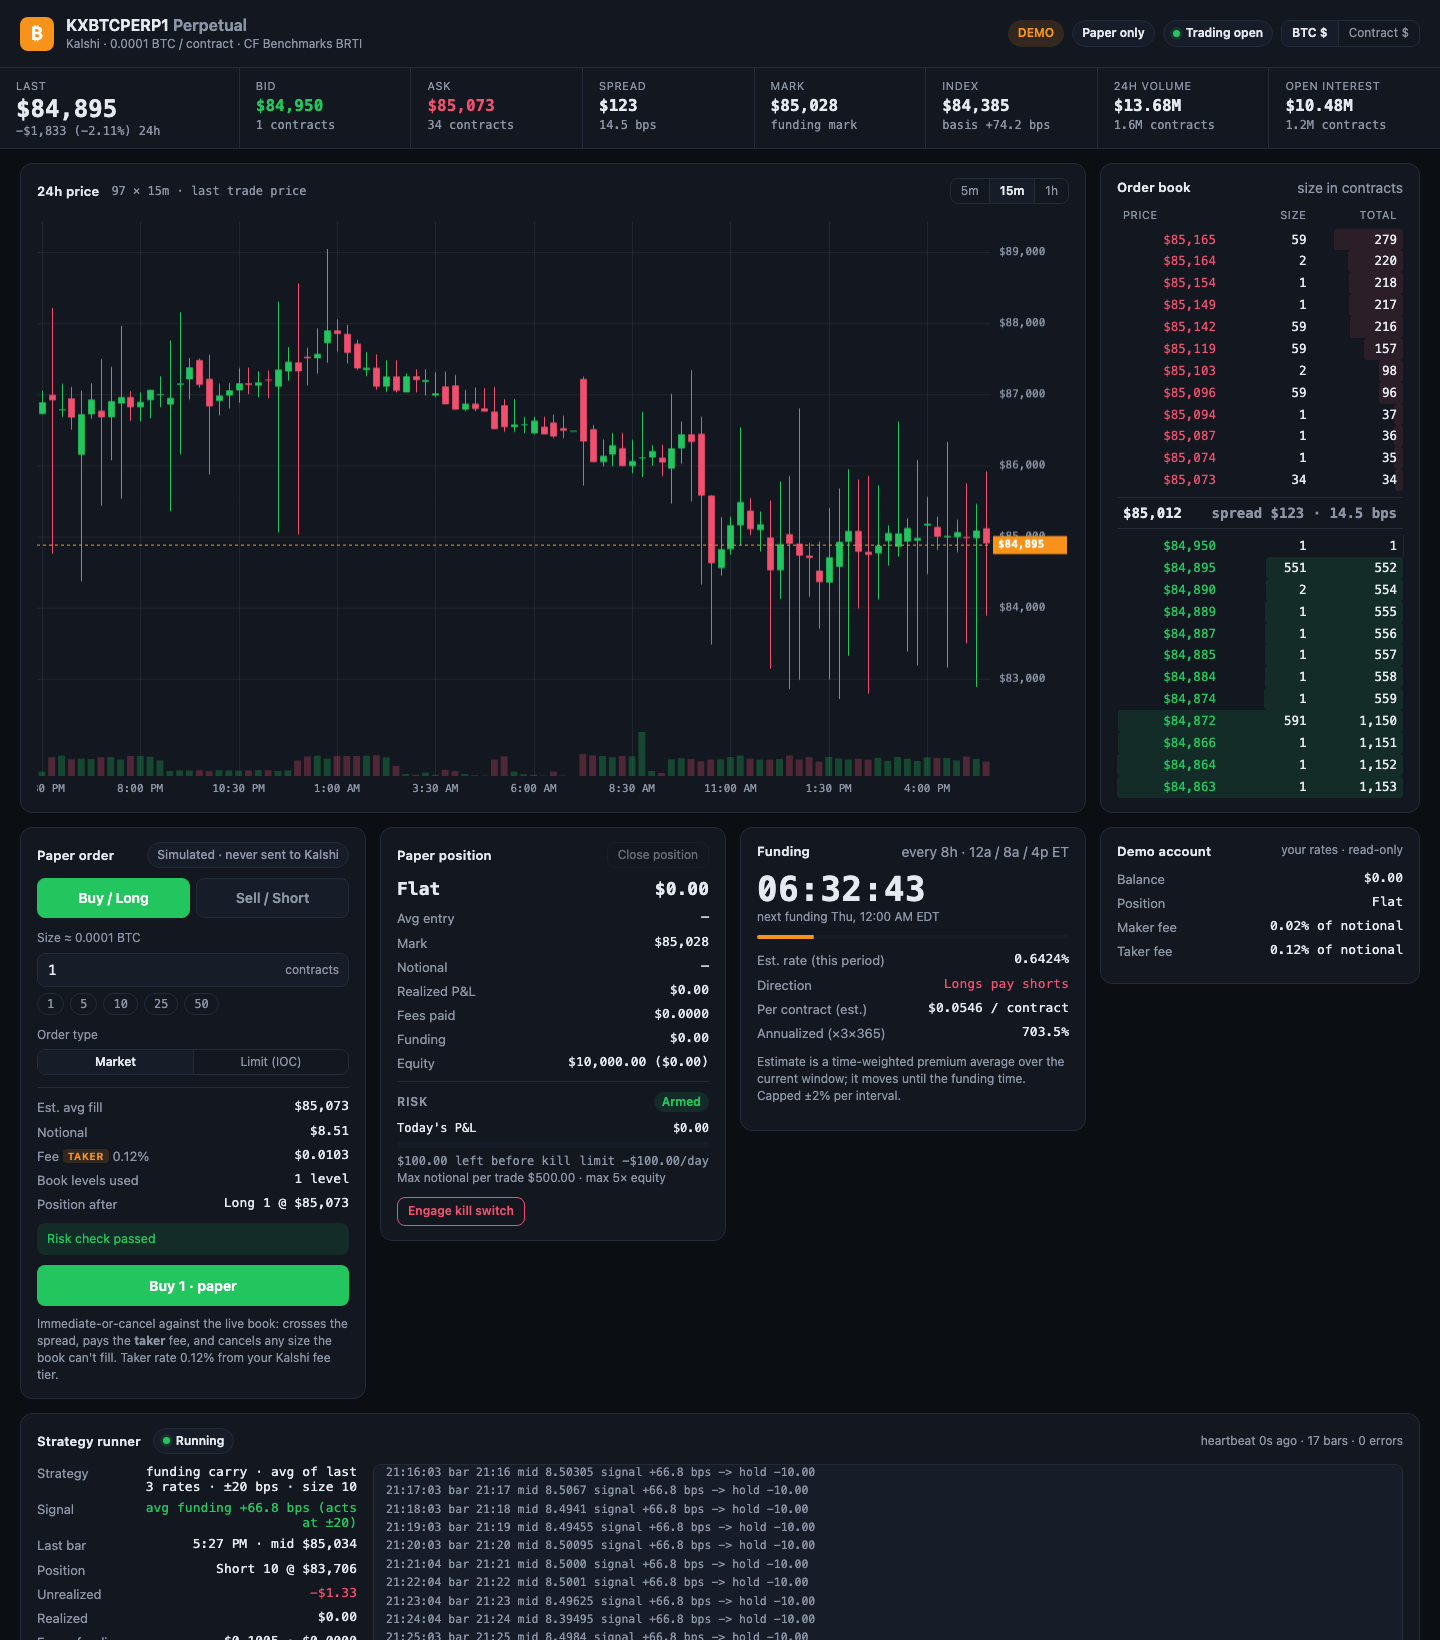
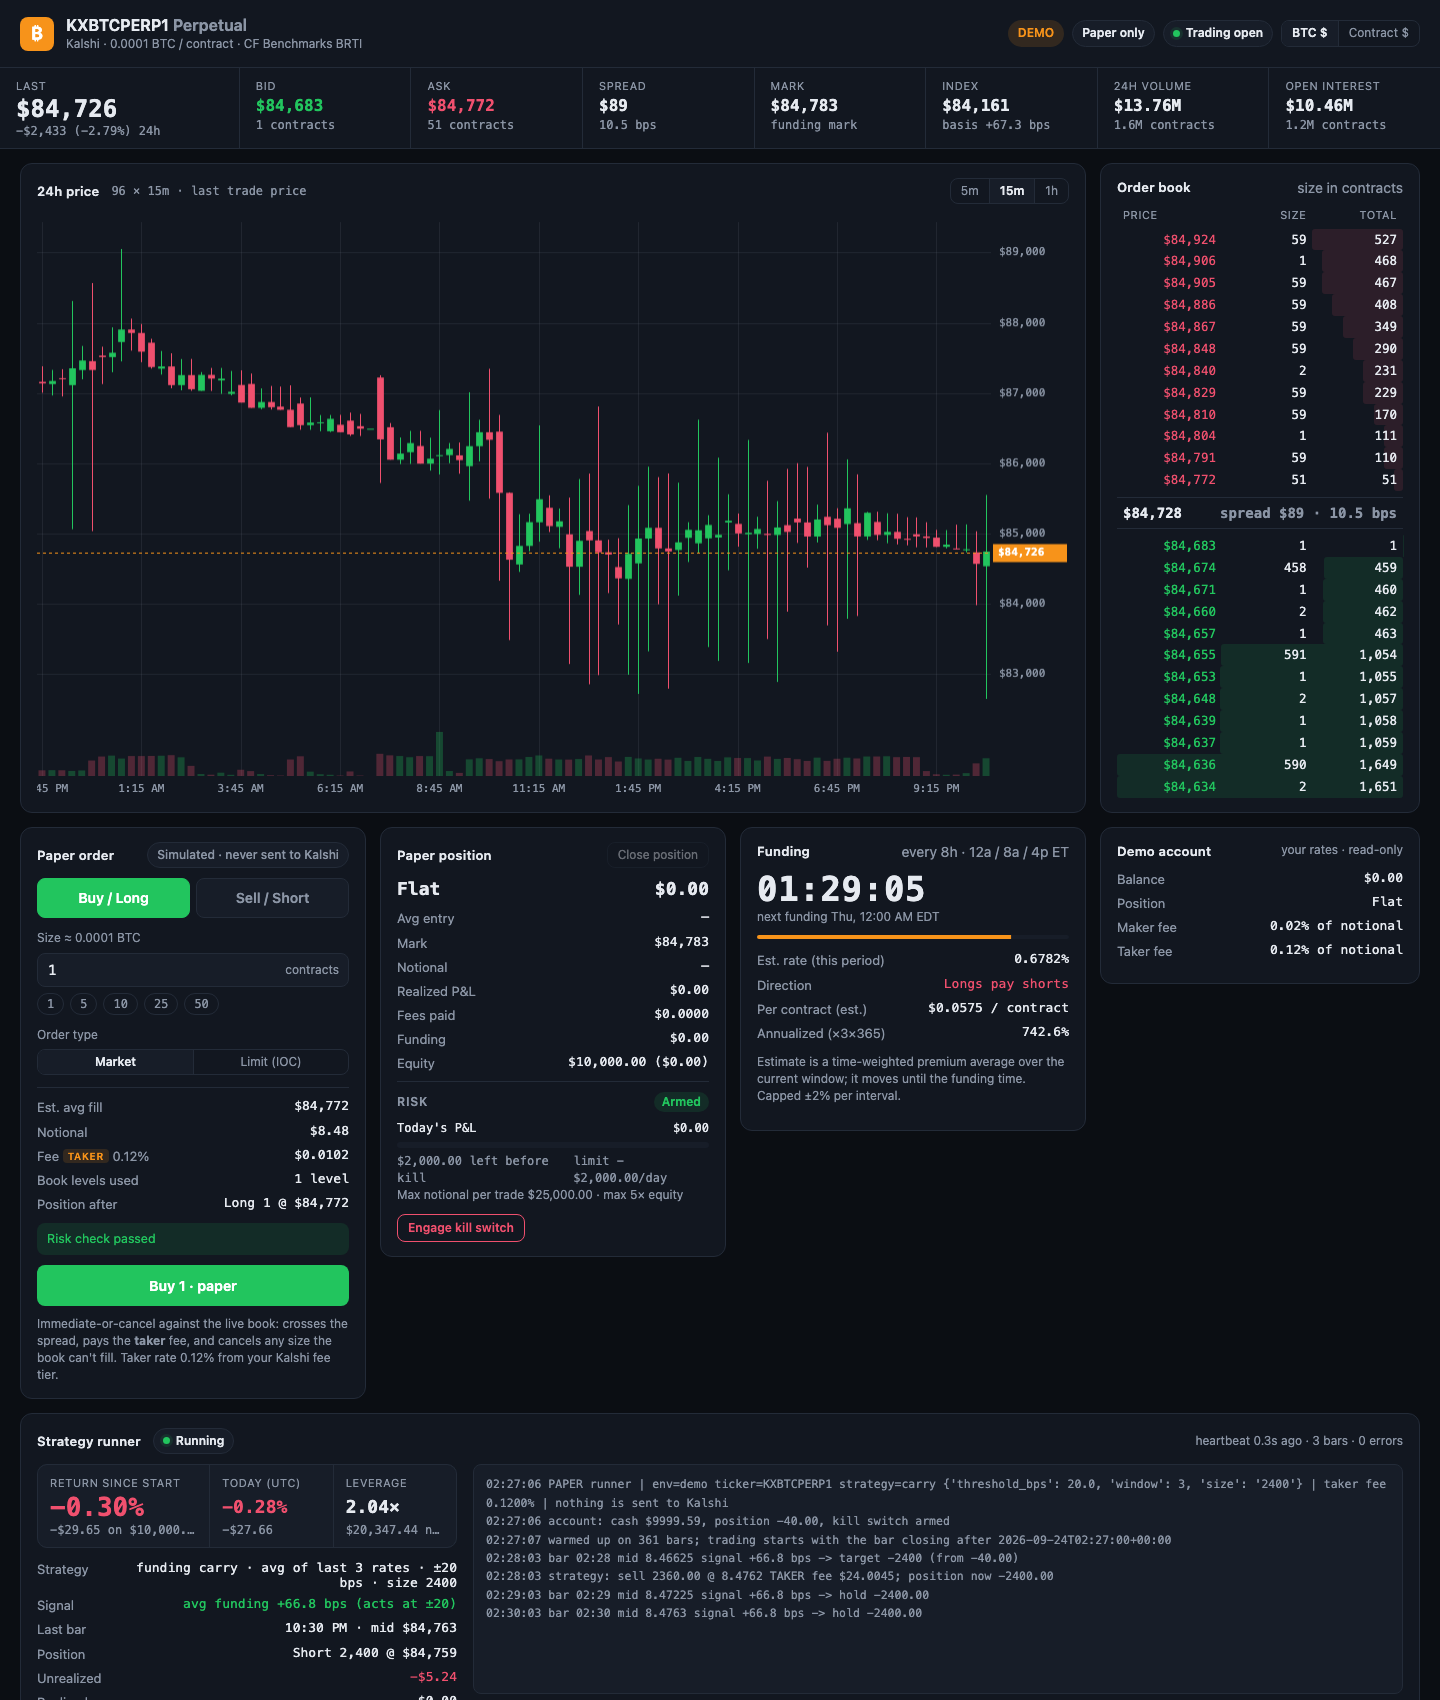
Show % return: dashboard runner card, backtest summary, 2x-leverage results
- Runner card leads with return since start, today's %, and leverage
- Backtest summary reports return % and drawdown %
- make_report: % return chart for carry vs buy & hold at ~2x leverage
- README/RESULTS: carry +60.4% over 40 days at 2x (held-out +39.6%)

diff --git a/dashboard/static/app.js b/dashboard/static/app.js
@@ -507,7 +507,19 @@ async function refreshRunner() {
   const fp = num(pos.funding_paid);
   $("runCosts").textContent = `$${num(pos.fees_paid).toFixed(4)} · ${fp > 0 ? "paid" : fp < 0 ? "recv" : ""} $${Math.abs(fp).toFixed(4)}`;
   const eq = num(st.equity), start = num(st.starting_cash);
+  const pctTxt = (x) => `${x > 0 ? "+" : x < 0 ? "−" : ""}${Math.abs(x * 100).toFixed(2)}%`;
   $("runEq").innerHTML = `${money(eq)} <span class="${signCls(eq - start)}">(${money(eq - start, true)})</span>`;
+  const tot = (eq - start) / start;
+  setText("runRet", pctTxt(tot), signCls(tot));
+  const started = r.started_at ? new Date(r.started_at) : null;
+  $("runRetSub").textContent = `${money(eq - start, true)} on ${money(start)}`;
+  const dayStart = num(st.risk.day_start_equity), daily = num(st.risk.daily_pnl);
+  const dayPct = dayStart ? daily / dayStart : 0;
+  setText("runRetDay", pctTxt(dayPct), signCls(dayPct));
+  $("runRetDaySub").textContent = money(daily, true);
+  const lev = eq ? Math.abs(num(pos.notional)) / eq : 0;
+  $("runLev").textContent = lev.toFixed(2) + "×";
+  $("runLevSub").textContent = `${money(Math.abs(num(pos.notional)))} notional`;
   setText("runKill", st.risk.killed ? "ON: " + st.risk.kill_reason : `armed · today ${money(st.risk.daily_pnl, true)}`,
     st.risk.killed ? "down" : "");
   const log = $("runLog");

diff --git a/dashboard/static/styles.css b/dashboard/static/styles.css
@@ -192,6 +192,12 @@ input:focus-visible, button:focus-visible { outline: 2px solid var(--accent); ou
   margin: 0; padding: 10px 12px; background: var(--panel-2); border: 1px solid var(--line); border-radius: 8px;
   font: 11.5px/1.6 var(--mono); color: var(--muted); max-height: 230px; overflow: auto; white-space: pre-wrap;
 }
+.ret-row { display: grid; grid-template-columns: 1.4fr 1fr 1fr; gap: 1px; background: var(--line); border: 1px solid var(--line); border-radius: 10px; overflow: hidden; margin-bottom: 12px; }
+.ret { background: var(--panel-2); padding: 10px 12px; min-width: 0; }
+.ret label { display: block; font-size: 11px; color: var(--muted); text-transform: uppercase; letter-spacing: 0.06em; }
+.ret-v { font: 600 26px/1.25 var(--mono); font-variant-numeric: tabular-nums; white-space: nowrap; }
+.ret-v.small-v { font-size: 18px; line-height: 1.8; }
+.ret-sub { font: 12px var(--mono); color: var(--muted); white-space: nowrap; overflow: hidden; text-overflow: ellipsis; }
 code { font: 12px var(--mono); background: var(--panel-2); padding: 1px 5px; border-radius: 4px; }
 @media (max-width: 760px) { .runner-grid { grid-template-columns: minmax(0, 1fr); } }
 

diff --git a/dashboard/static/index.html b/dashboard/static/index.html
@@ -169,6 +169,12 @@
     </div>
     <div id="runEmpty" class="muted small">Start it with <code>python scripts/paper_run.py</code>. It trades its own paper account (separate from the manual ticket above) and never sends orders to Kalshi.</div>
     <div class="runner-grid" id="runBody" hidden>
+      <div>
+      <div class="ret-row">
+        <div class="ret"><label>Return since start</label><div class="ret-v" id="runRet">—</div><div class="ret-sub" id="runRetSub">—</div></div>
+        <div class="ret"><label>Today (UTC)</label><div class="ret-v small-v" id="runRetDay">—</div><div class="ret-sub" id="runRetDaySub">—</div></div>
+        <div class="ret"><label>Leverage</label><div class="ret-v small-v" id="runLev">—</div><div class="ret-sub" id="runLevSub">—</div></div>
+      </div>
       <dl class="kv">
         <dt>Strategy</dt><dd id="runStrat">—</dd>
         <dt>Signal</dt><dd id="runSignal">—</dd>
@@ -180,6 +186,7 @@
         <dt>Equity</dt><dd id="runEq">—</dd>
         <dt>Kill switch</dt><dd id="runKill">—</dd>
       </dl>
+      </div>
       <pre class="runlog" id="runLog"></pre>
     </div>
   </section>

diff --git a/scripts/make_report.py b/scripts/make_report.py
@@ -106,6 +106,35 @@ def carry_breakdown(res):
     plt.close(fig)
 
 
+def sized_chart(bars, funding, contracts: int = 2400, split_ts: int = 1788912000):
+    """% return on the $10k account at ~2x leverage: the live paper configuration."""
+    cfg = BacktestConfig(taker_fee_rate=Decimal("0.0012"), risk=RiskConfig(Decimal("25000"), Decimal("2000")))
+    fig, ax = plt.subplots(figsize=(10, 4.4))
+    out = {}
+    for name, strat, color, ls, lw in (("Funding carry", FundingCarry(20, 3, Decimal(contracts)), BLUE, "-", 2.2),
+                                       ("Buy & hold", BuyAndHold(Decimal(contracts)), ORANGE, "--", 1.6)):
+        res = run_backtest(bars, funding, strat, cfg)
+        out[name] = res
+        xs = [datetime.fromtimestamp(t, timezone.utc) for t, _ in res.equity_curve]
+        ys = [float(e / res.starting_cash - 1) * 100 for _, e in res.equity_curve]
+        ax.plot(xs, ys, color=color, linestyle=ls, linewidth=lw, zorder=3)
+        ax.annotate(f"{name}  {ys[-1]:+.1f}%", (xs[-1], ys[-1]), xytext=(8, 0), textcoords="offset points",
+                    va="center", color=INK2, fontsize=9.5)
+    split = datetime.fromtimestamp(split_ts, timezone.utc)
+    ax.axvspan(split, xs[-1], color=MUTED, alpha=0.08, zorder=0, linewidth=0)
+    ax.annotate("held-out test", (split, 1), xycoords=("data", "axes fraction"), xytext=(6, -14),
+                textcoords="offset points", color=MUTED, fontsize=9)
+    ax.yaxis.set_major_formatter(matplotlib.ticker.FuncFormatter(lambda v, _: f"{v:+.0f}%" if v else "0%"))
+    ax.xaxis.grid(False)
+    ax.axhline(0, color=BASE, linewidth=1, zorder=1)
+    ax.xaxis.set_major_formatter(mdates.DateFormatter("%b %d"))
+    ax.set_title(f"Return on a $10,000 account, {contracts:,} contracts (~2x leverage), 40 days", pad=12)
+    fig.subplots_adjust(right=0.8)
+    fig.savefig(OUT / "carry_sized.png", dpi=160)
+    plt.close(fig)
+    return out
+
+
 def walk_forward_chart(wf_path: Path):
     wf = json.loads(wf_path.read_text())
     names = sorted(wf, key=lambda k: wf[k]["total"])
@@ -139,6 +168,8 @@ def main() -> int:
     cfg = BacktestConfig(taker_fee_rate=Decimal("0.0012"), risk=RiskConfig(s.max_notional_per_trade, s.daily_loss_limit))
     results = strategies_chart(bars, funding, cfg)
     carry_breakdown(results["Funding carry"])
+    for name, r in sized_chart(bars, funding).items():
+        print(f"{name:16} at 2x: {r.total_return:+.2%}, max drawdown {r.max_drawdown[1]:.2%}")
     wf = ROOT / "data" / "wf.json"
     if wf.is_file():
         walk_forward_chart(wf)

diff --git a/backtest/engine.py b/backtest/engine.py
@@ -124,7 +124,9 @@ class BacktestResult:
             f"Strategy      {self.strategy} {self.params}",
             f"Period        {ts(self.start_ts)} -> {ts(self.end_ts)} UTC ({self.bars} bars)",
             f"Start equity  ${self.starting_cash:,.2f}",
-            f"End equity    ${self.final_equity:,.2f}   net {self.net_pnl:+,.2f} ({self.total_return:+.3%})",
+            f"Return        {self.total_return:+.2%}   ({'-' if self.net_pnl < 0 else '+'}${abs(self.net_pnl):,.2f} "
+            f"on ${self.starting_cash:,.0f})",
+            f"End equity    ${self.final_equity:,.2f}",
             "",
             "P&L attribution",
             f"  price P&L          {self.price_pnl:+,.4f}   (includes {-self.spread_cost:+,.4f} of spread crossed)",
@@ -136,7 +138,7 @@ class BacktestResult:
             f"{len(self.rejected)} rejected",
             f"Turnover      ${sum(t.notional for t in self.trades):,.2f} notional",
             f"Exposure      {self.exposure:.1%} of bars in a position",
-            f"Max drawdown  {dd:,.2f} ({ddp:.3%})",
+            f"Max drawdown  {ddp:.2%} (-${abs(dd):,.2f})",
             f"Sharpe (ann.) {'n/a' if sh is None else f'{sh:.2f}'}",
         ]
         if self.killed_at:

diff --git a/docs/RESULTS.md b/docs/RESULTS.md
@@ -65,6 +65,20 @@ The carry parameters (average of last 3 rates, 20 bps threshold) were fixed on t
 
 ![Carry P&L decomposition](img/carry_breakdown.png)
 
+### Sized for the account (~2× leverage)
+
+The research runs use 10 contracts so strategies compete on equal footing. The live paper runner trades carry at 2,400 contracts (~$20k notional on a $10k account, ~2× leverage) with the daily loss limit raised to $2,000 and a $25,000 per-order cap.
+
+![Return at 2x leverage](img/carry_sized.png)
+
+| At 2,400 contracts | Return | Max drawdown |
+| --- | ---: | ---: |
+| Funding carry, full 40 days | **+60.43%** | −17.74% |
+| Funding carry, held-out Sep 9 – 23 | **+39.59%** | −20.13% |
+| Buy & hold, full 40 days | −40.23% | −60.12% (kill switch tripped) |
+
+The kill switch never tripped for carry; its worst day was −$917 (−9%). At this size the backtest overstates fill quality: 2,400 contracts is more than the demo book usually shows near the top, and candles don't carry depth. The live runner handles that by filling only within 25 bps of the mark and retrying the rest.
+
 ## What the numbers say
 
 **Momentum loses because the market mean-reverts.** Every momentum variant lost, in every week, before and after costs. The fast version (15 min / 30 bps) lost $1,126 over 40 days on 2,922 fills.
@@ -81,7 +95,7 @@ The carry parameters (average of last 3 rates, 20 bps threshold) were fixed on t
 - **Demo market.** Demo funding and liquidity aren't production's. Production funding is usually a small fraction of this, so the carry edge may not exist there.
 - **Directional risk.** Carry is net short BTC with no hedge. A strong rally would swamp the funding income.
 - **Depth and liquidation** aren't in the backtest; the live paper runner does walk the full book and has a slippage guard.
-- **Small size.** Results are for 10 contracts (~$85 notional); P&L scales roughly linearly with size, and so do drawdowns.
+- **Leverage.** The research is at 10 contracts (~$85); the sized results are the same trades scaled up, so they carry the same single-position risk at 2× the account. A 10% one-day BTC rally would cost about $2,000 and trip the kill switch.
 
 ## Reproduce
 

diff --git a/README.md b/README.md
@@ -17,7 +17,11 @@ A Python trading system for Kalshi's **Bitcoin perpetual futures**: a signed RES
 
 ## Results
 
-All tests run on Kalshi's demo market (`KXBTCPERP1`), Aug 14 – Sep 23 2026: 55,210 one-minute bars, 10 contracts (0.001 BTC), 0.12% taker fee.
+**Funding carry returned +60.4% on a $10,000 account over 40 days at ~2× leverage (max drawdown −17.7%), and +39.6% on the held-out final two weeks alone. Buy-and-hold at the same size lost 40.2%.** That's the configuration the live paper runner trades.
+
+![Return on a $10,000 account at ~2x leverage: carry +60.4%, buy and hold -40.2%](docs/img/carry_sized.png)
+
+The research below was done at a small fixed size (10 contracts) so strategies are compared on the same footing; returns scale roughly linearly with size, and so do drawdowns. All tests use Kalshi's demo market (`KXBTCPERP1`), Aug 14 – Sep 23 2026: 55,210 one-minute bars, 0.12% taker fee.
 
 ![Walk-forward out-of-sample P&L by strategy family](docs/img/walk_forward.png)
 
